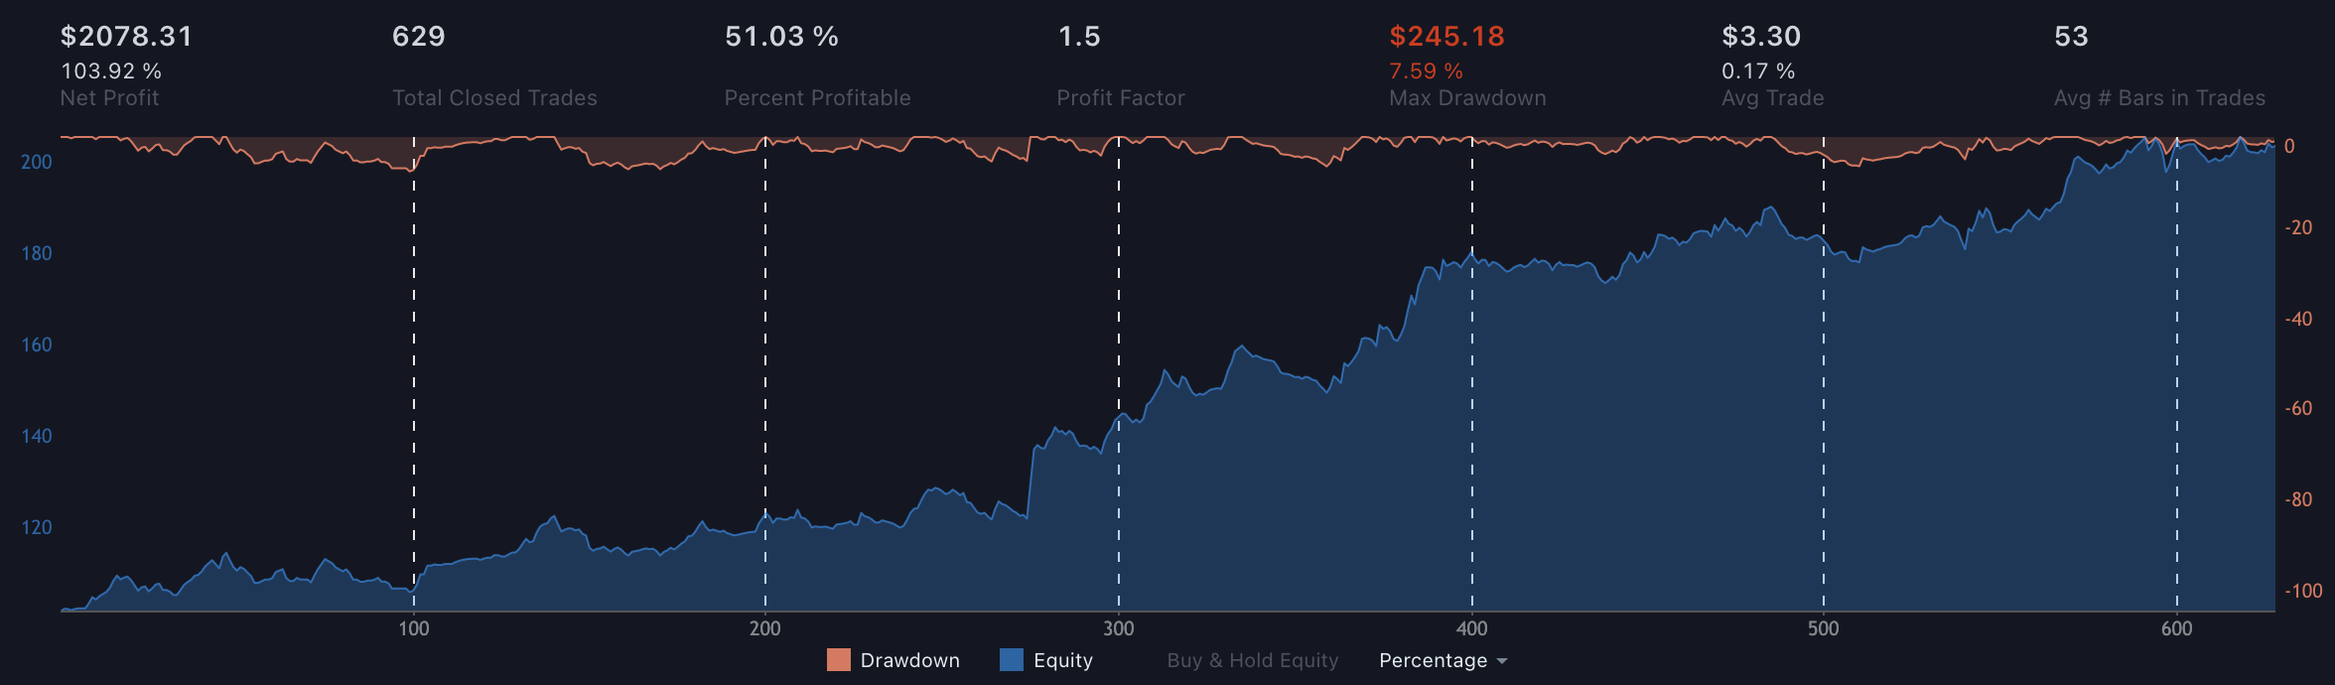
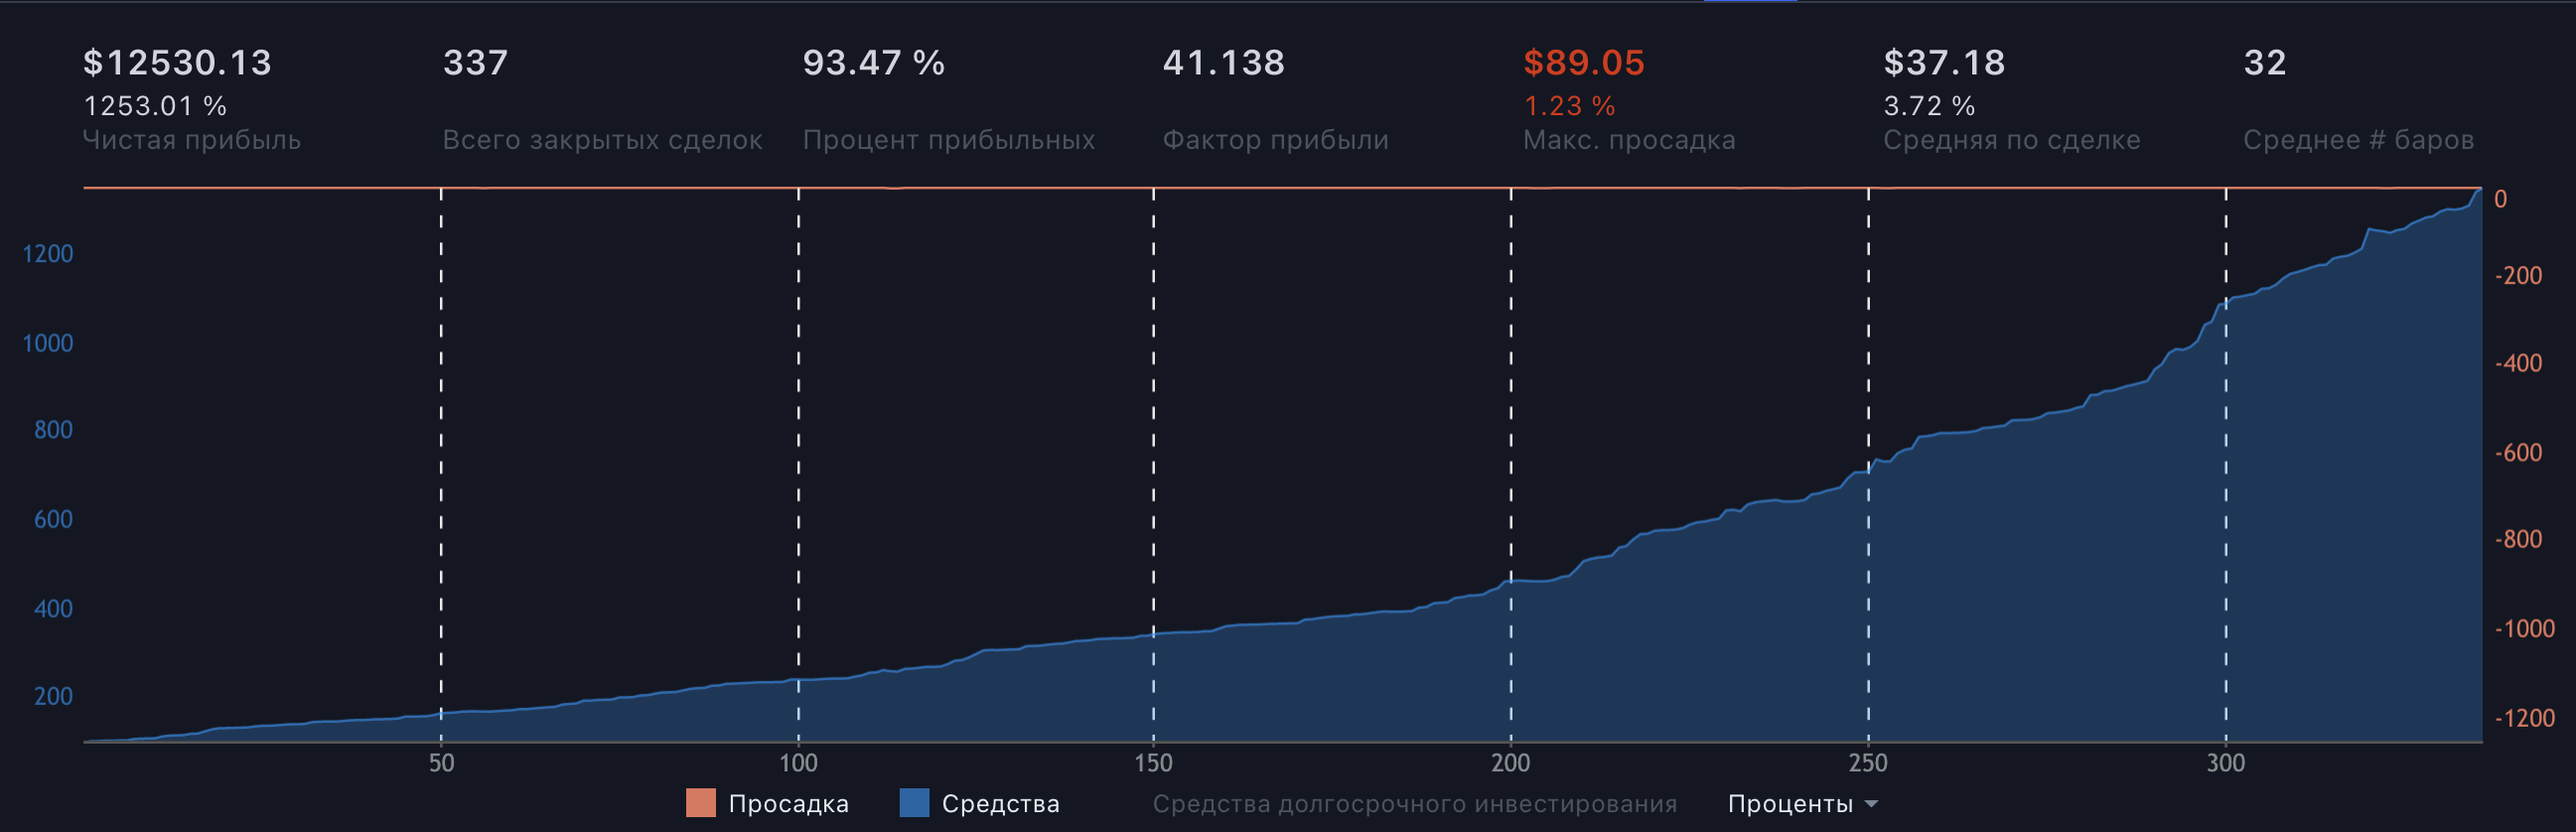
new data update for reverie 3

diff --git a/_pages/getting-started.md b/_pages/getting-started.md
@@ -50,36 +50,40 @@ permalink: /getting-started/
 Бектест - проверка работы алгоритма на истории, что бы узнать была ли стратегия прибыльной. Мы подготовили бектесты для списка монет выше. Синяя зона на графике - прибыль, а красная просадки. 
 Небольшие убытки всегда были и будут у всех. Никто не видит будущего, однако на таких бектестах мы можем видеть что стратегия работала месяцами успешно и на диастанции оказалась профитной.
 
+###### Данные ниже приведены с начальными переменными: 
+- 1000$ стартового депозита.
+- Вход в каждую сделку на 30% от депозита
+
 #### 1INCHUSDT
-43% прибыли при 4% максимальных убытков. Профит фактор: 1.65
+1114% прибыли при 1.8% максимальных убытков. Профит фактор: 26.98
 [<img src="{{ site.baseurl }}/images/backtest/1INCHUSDT.png" alt="Бектест 1INCHUSDT алгоритмический трейдинг"/>]({{ site.baseurl }}/)
 
 #### ADAUSDT
-103% прибыли при 7% максимальных убытков. Профит фактор: 1.5
+1253% прибыли при 1.2% максимальных убытков. Профит фактор: 41.13
 [<img src="{{ site.baseurl }}/images/backtest/ADAUSDT.png" alt="Бектест ADAUSDT алгоритмический трейдинг"/>]({{ site.baseurl }}/)
 
 #### AXSUSDT
-160% прибыли при 17% максимальных убытков. Профит фактор: 1.58
+1774% прибыли при 1.3% максимальных убытков. Профит фактор: 49.6
 [<img src="{{ site.baseurl }}/images/backtest/AXSUSDT.png" alt="Бектест AXSUSDT алгоритмический трейдинг"/>]({{ site.baseurl }}/)
 
 #### BNBUSDT
-53% прибыли при 3% максимальных убытков. Профит фактор: 1.53
+263% прибыли при 0.75% максимальных убытков. Профит фактор: 41.9
 [<img src="{{ site.baseurl }}/images/backtest/BNBUSDT.png" alt="Бектест BNBUSDT алгоритмический трейдинг"/>]({{ site.baseurl }}/)
 
 #### ETHUSDT
-88% прибыли при 4% максимальных убытков. Профит фактор: 1.59
+611% прибыли при 1.3% максимальных убытков. Профит фактор: 43.2
 [<img src="{{ site.baseurl }}/images/backtest/ETHUSDT.png" alt="Бектест ETHUSDT алгоритмический трейдинг"/>]({{ site.baseurl }}/)
 
 #### ICXUSDT
-122% прибыли при 5% максимальных убытков. Профит фактор: 1.97
+2500% прибыли при 2.8% максимальных убытков. Профит фактор: 33.9
 [<img src="{{ site.baseurl }}/images/backtest/ICXUSDT.png" alt="Бектест ICXUSDT алгоритмический трейдинг"/>]({{ site.baseurl }}/)
 
 #### KSMUSDT
-63% прибыли при 6% максимальных убытков. Профит фактор: 1.46
+1468% прибыли при 1.6% максимальных убытков. Профит фактор: 46.9
 [<img src="{{ site.baseurl }}/images/backtest/KSMUSDT.png" alt="Бектест KSMUSDT алгоритмический трейдинг"/>]({{ site.baseurl }}/)
 
 #### NEARUSDT
-127% прибыли при 10% максимальных убытков. Профит фактор: 1.68
+2800% прибыли при 2.4% максимальных убытков. Профит фактор: 52.5
 [<img src="{{ site.baseurl }}/images/backtest/NEARUSDT.png" alt="Бектест NEARUSDT алгоритмический трейдинг"/>]({{ site.baseurl }}/)
 
 ### Что дальше?

diff --git a/_pages/getting-started-ENG.md b/_pages/getting-started-ENG.md
@@ -50,36 +50,41 @@ The indicator does not work on other coins and timeframes at the moment!
 Backtest - checking the operation of the algorithm on history to find out if the strategy was profitable. We have prepared backtests for the list of coins above. The blue zone on the chart is profit, and the red zone is drawdown.
 There have always been and will be small losses for everyone. No one sees the future, however, on such backtests, we can see that the strategy worked successfully for months and turned out to be profitable at a distance.
 
+
+###### The data below is presented with initial variables:
+- $1000 starting deposit.
+- Entrance to each meeting for 30% of the deposit
+
 #### 1INCHUSDT
-43% profit with 4% maximum loss. Profit factor: 1.65
+1114% profit with 1.8% maximum loss. Profit factor: 26.98
 [<img src="{{ site.baseurl }}/images/backtest/1INCHUSDT.png" alt="Backtest 1INCHUSDT algorithmic trading"/>]({{ site.baseurl }}/)
 
 #### ADAUSDT
-103% profit with 7% maximum loss. Profit factor: 1.5
+1253% profit with 1.2% maximum loss. Profit factor: 41.13
 [<img src="{{ site.baseurl }}/images/backtest/ADAUSDT.png" alt="ADUSDT algorithmic trading backtest"/>]({{ site.baseurl }}/)
 
 #### AXSUSDT
-160% profit with 17% maximum loss. Profit factor: 1.58
+1774% profit with 1.3% maximum loss. Profit factor: 49.6
 [<img src="{{ site.baseurl }}/images/backtest/AXSUSDT.png" alt="AXSUSDT algorithmic trading backtest"/>]({{ site.baseurl }}/)
 
 #### BNBUSDT
-53% profit with 3% maximum loss. Profit factor: 1.53
+263% profit with 0.75% maximum loss. Profit factor: 41.9
 [<img src="{{ site.baseurl }}/images/backtest/BNBUSDT.png" alt="BNBUSDT algorithmic trading backtest"/>]({{ site.baseurl }}/)
 
-####ETHUSDT
-88% profit with 4% maximum loss. Profit factor: 1.59
+#### ETHUSDT
+611% profit with 1.3% maximum loss. Profit factor: 43.2
 [<img src="{{ site.baseurl }}/images/backtest/ETHUSDT.png" alt="Backtest ETHUSDT algorithmic trading"/>]({{ site.baseurl }}/)
 
 #### ICXUSDT
-122% profit with 5% maximum loss. Profit factor: 1.97
+2500% profit with 2.8% maximum loss. Profit factor: 33.9
 [<img src="{{ site.baseurl }}/images/backtest/ICXUSDT.png" alt="ICXUSDT backtest algorithmic trading"/>]({{ site.baseurl }}/)
 
 #### KSMUSDT
-63% profit with 6% maximum loss. Profit factor: 1.46
+1468% profit with 1.6% maximum loss. Profit factor: 46.9
 [<img src="{{ site.baseurl }}/images/backtest/KSMUSDT.png" alt="Backtest KSMUSDT algorithmic trading"/>]({{ site.baseurl }}/)
 
 #### NEARUSDT
-127% profit with 10% maximum loss. Profit factor: 1.68
+2800% profit with 2.4% maximum loss. Profit factor: 52.5
 [<img src="{{ site.baseurl }}/images/backtest/NEARUSDT.png" alt="Backtest NEARUSDT algorithmic trading"/>]({{ site.baseurl }}/)
 
 ### What's next?
